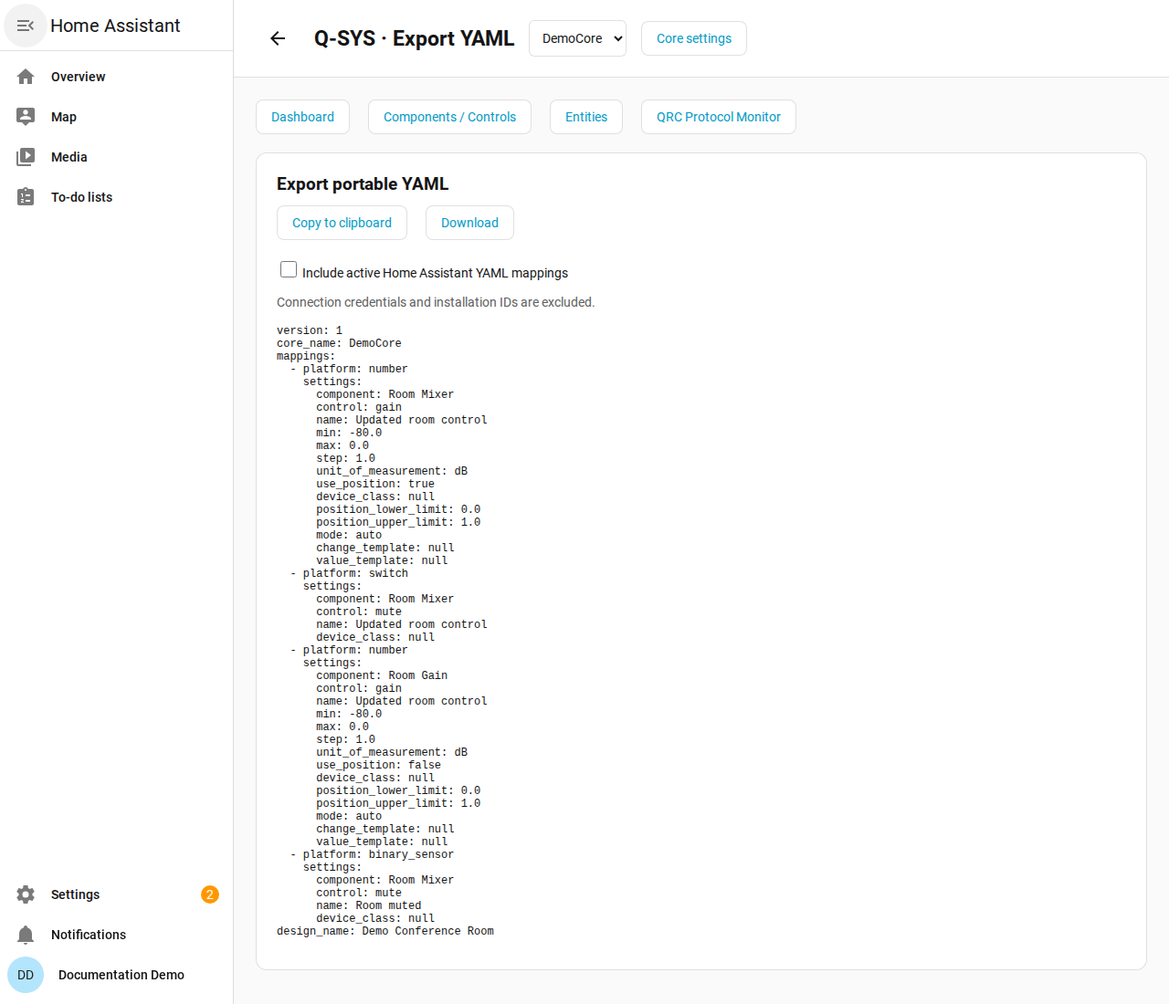
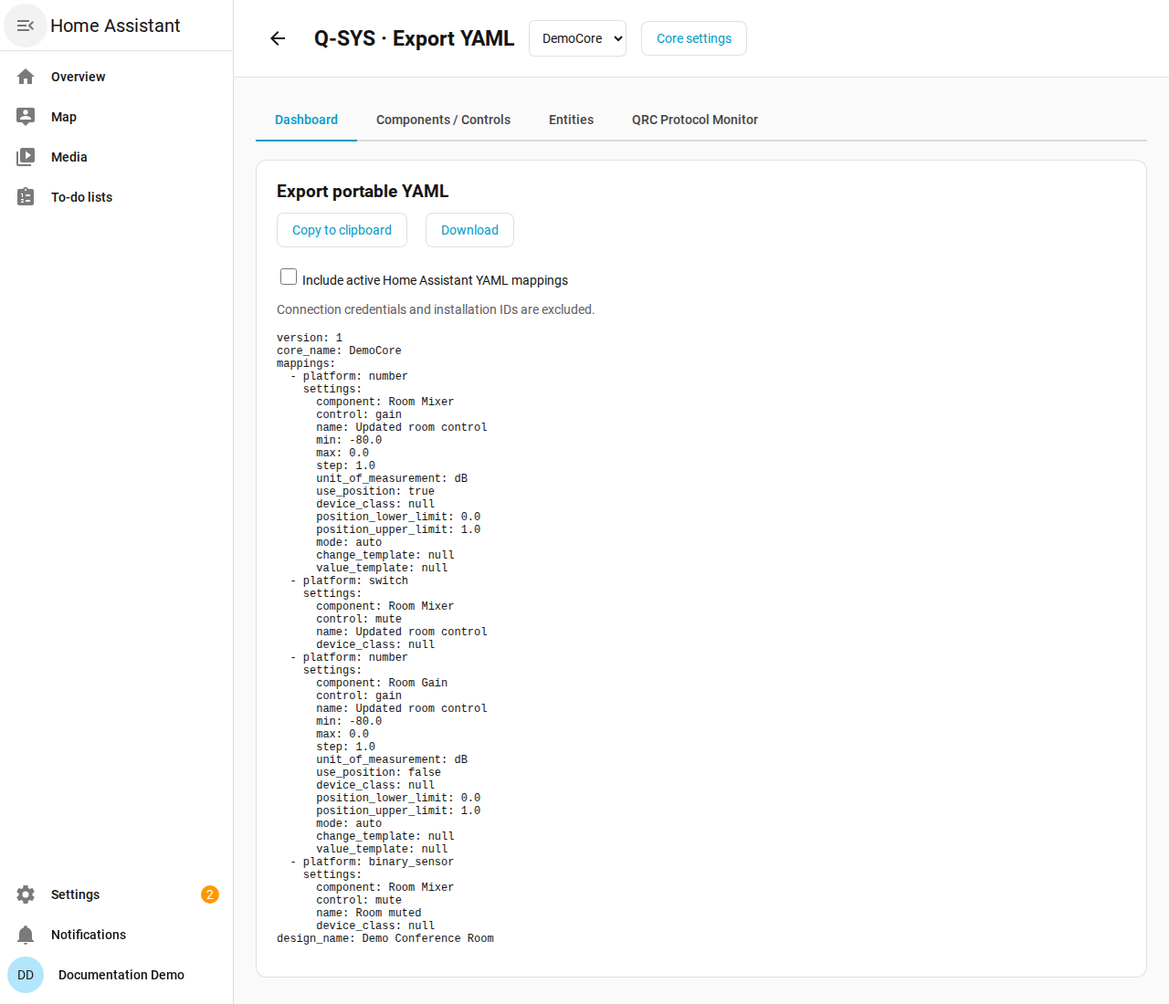
Use Home Assistant navigation tabs with a visible active view

Changed region(s): [[0.2188, 0.0927, 0.6875, 0.9582]]

diff --git a/custom_components/qsys_qrc/frontend/panel.js b/custom_components/qsys_qrc/frontend/panel.js
@@ -21,8 +21,23 @@ customElements.define('qsys-discard-dialog',QsysDiscardDialog);
 class QsysPanel extends HTMLElement {
   constructor() {
     super(); this.attachShadow({mode:'open'}); this.view='overview'; this.cores=[]; this.controls=[]; this.selectedComponents=new Set(); this.componentErrors={}; this.inventory=[]; this.selected=new Set(); this.filter=''; this.frames=[]; this.paused=false;this.cleanControls=new Map();this.collator=new Intl.Collator(undefined,{numeric:true,sensitivity:'base'});this.controlSort={field:'name',direction:1};this.entitySort={field:'name',direction:1};
-    this.shadowRoot.addEventListener('click', e => { const button=e.target.closest('[data-action]'); if(button) this.run(()=>this.action(button.dataset.action,button.dataset)); });
+    this.shadowRoot.addEventListener('click', e => { const button=e.target.closest('[data-action]'); if(button) this.run(()=>this.action(button.dataset.action,button.dataset)); const tab=e.target.closest('ha-tab-group-tab');if(tab&&tab.panel===this.navigationView()&&tab.panel!==this.view){this.restoreNavigationFocus=true;this.run(()=>this.navigate(tab.panel));} });
     this.shadowRoot.addEventListener('change', e => {if(e.target.id==='direction'){this.direction=e.target.value;this.updateMonitor();return;}if(e.target.matches('#core,#single-column,[data-component],[data-select],#all,[data-platform],[data-position],#file,#effective,#edit-field,#collision,#transfer'))this.run(()=>this.change(e.target));});
+    this.shadowRoot.addEventListener('wa-tab-show',event=>{
+      const view=event.detail.name;
+      if(view===this.navigationView()||!panelViews.has(view))return;
+      this.shadowRoot.querySelector('ha-tab-group')?.show?.(this.navigationView());
+      this.restoreNavigationFocus=true;
+      this.run(()=>this.navigate(view));
+    });
+    this.shadowRoot.addEventListener('keydown',event=>{
+      const tab=event.target.closest?.('.fallback-tabs [role="tab"]');
+      if(!tab||!['ArrowLeft','ArrowRight','Home','End'].includes(event.key))return;
+      event.preventDefault();
+      const tabs=[...tab.parentElement.querySelectorAll('[role="tab"]')],index=tabs.indexOf(tab);
+      const next=event.key==='Home'?0:event.key==='End'?tabs.length-1:(index+(event.key==='ArrowRight'?1:-1)+tabs.length)%tabs.length;
+      tabs.forEach((item,i)=>item.tabIndex=i===next?0:-1);tabs[next].focus();
+    });
     this.shadowRoot.addEventListener('input', e => {if(e.target.id==='component-filter'){this.componentFilter=e.target.value;this.filterComponentChoices();} if(e.target.id==='monitor-search'){this.monitorSearch=e.target.value;this.updateMonitor();}if(e.target.id==='search') { this.filter=e.target.value; this.filterRows(); } });
   }
   set hass(value) { this._hass=value;this.updateEntityIcons(); if(!this.started && this.isConnected) {this.started=true; this.run(()=>this.initialize());} }
@@ -74,7 +89,7 @@ class QsysPanel extends HTMLElement {
     if(pending.discard)history.go(pending.delta);
   }
   updateActionPanelHeight(){if(['browser','entities'].includes(this.view)){const height=Math.max(0,document.documentElement.clientHeight-Math.max(0,this.getBoundingClientRect().top));this.style.setProperty('--qsys-panel-height',`${height}px`);}}
-  connectedCallback() { this.resizeActionPanel=()=>this.updateActionPanelHeight();window.addEventListener('resize',this.resizeActionPanel);this.installLeaveGuard(); if(this._hass&&!this.started){this.started=true;this.run(()=>this.initialize());} this.timer=setInterval(()=>{if(this.view==='monitor'&&!this.paused&&!this.busy)this.refreshMonitor();if(this.view==='browser'&&this.selectedComponents.size&&this.controls.length&&!this.busy&&!this.polling)this.pollValues();},1500); }
+  connectedCallback() { this.watchNavigationTabs();this.resizeActionPanel=()=>this.updateActionPanelHeight();window.addEventListener('resize',this.resizeActionPanel);this.installLeaveGuard(); if(this._hass&&!this.started){this.started=true;this.run(()=>this.initialize());} this.timer=setInterval(()=>{if(this.view==='monitor'&&!this.paused&&!this.busy)this.refreshMonitor();if(this.view==='browser'&&this.selectedComponents.size&&this.controls.length&&!this.busy&&!this.polling)this.pollValues();},1500); }
   disconnectedCallback(){ window.removeEventListener('resize',this.resizeActionPanel);clearInterval(this.timer);this.entityEventGeneration=(this.entityEventGeneration||0)+1;this.entityEventsUnsubscribe?.();this.entityEventsUnsubscribe=null;this.pendingEntityInventory=null;this.started=false;window.navigation?.removeEventListener('navigate',this.leaveTraverse);window.removeEventListener('beforeunload',this.beforeUnload);window.removeEventListener('click',this.leaveClick,true);window.removeEventListener('location-changed',this.leaveLocation,true);window.removeEventListener('popstate',this.leaveLocation,true); }
   async api(operation,params={}) {return this._hass.callWS({type:'qsys_qrc/panel',operation,...(this.entry?{entry_id:this.entry}:{}),...params});}
   async run(fn){if(this.busy)return;this.actionFocus=this.shadowRoot.activeElement?.dataset.action;this.captureForm();this.busy=true;this.error='';this.shadowRoot.querySelectorAll('button,input,select,textarea').forEach(b=>b.disabled=true);try{await fn();}catch(e){this.error=e.message||String(e);}finally{this.busy=false;this.render();if(this.pendingRoute){this.pendingRoute=false;this.routeChanged();}this.refreshEntityInventory();}}
@@ -316,7 +331,7 @@ class QsysPanel extends HTMLElement {
     if(action==='more-info'){this.dispatchEvent(new CustomEvent('hass-more-info',{detail:{entityId:data.entity},bubbles:true,composed:true}));return;}
     if(action==='core-settings'){if(!await this.confirmLeave())return;history.pushState(null,'','/config/integrations/integration/qsys_qrc');window.dispatchEvent(new CustomEvent('location-changed'));return;}
     if(action==='back'){if(!await this.confirmLeave())return;history.pushState(null,'','/config/connectivity');window.dispatchEvent(new CustomEvent('location-changed'));return;}
-    if(action==='navigate')return this.navigate(data.view);
+    if(action==='navigate'){if(this.shadowRoot.activeElement?.getAttribute('role')==='tab')this.restoreNavigationFocus=true;return this.navigate(data.view);}
     if(action==='refresh')return this.view==='browser'?this.refreshControls():this.navigate(this.view);
     if(action==='refresh-components')return this.refreshComponents();
     if(action==='show-all-components')return this.showComponents([...new Set([...this.selectedComponents,...this.matchingComponents().map(c=>c.Name)])]);
@@ -383,6 +398,19 @@ class QsysPanel extends HTMLElement {
   helpTooltip(id,label,text){
     return `<span class="help"><button type="button" class="help-icon" aria-label="About ${escapeHTML(label)}" aria-describedby="help-${id}">?</button><span class="help-tooltip" role="tooltip" id="help-${id}">${escapeHTML(text)}</span></span>`;
   }
+  navigationView(){return ['overview','browser','entities','monitor'].includes(this.view)?this.view:'overview';}
+  watchNavigationTabs(){
+    if(this.navigationUpgradeWatching||customElements.get('ha-tab-group')&&customElements.get('ha-tab-group-tab'))return;
+    this.navigationUpgradeWatching=true;
+    Promise.all(['ha-tab-group','ha-tab-group-tab'].map(name=>customElements.whenDefined(name))).then(()=>{
+      if(this.isConnected&&!this.busy){this.captureForm();this.render();}
+    });
+  }
+  renderNavigation(titles){
+    const views=Object.entries(titles).filter(([view])=>['overview','browser','entities','monitor'].includes(view)),active=this.navigationView();
+    if(customElements.get('ha-tab-group')&&customElements.get('ha-tab-group-tab'))return `<ha-tab-group class="view-tabs" aria-label="Q-SYS views">${views.map(([view,label])=>`<ha-tab-group-tab slot="nav" panel="${view}" ${view===active?'active':''}>${label}</ha-tab-group-tab>`).join('')}</ha-tab-group>`;
+    return `<div class="view-tabs fallback-tabs" role="tablist" aria-label="Q-SYS views">${views.map(([view,label])=>`<button role="tab" aria-selected="${view===active}" aria-controls="view-content" tabindex="${view===active?'0':'-1'}" data-action="navigate" data-view="${view}">${label}</button>`).join('')}</div>`;
+  }
   renderEntityBar(){return `<section class="action-bar entity-action-bar" aria-label="Manage selected entities"><div class="edit-controls"><label>Setting to edit <select id="edit-field">${this.editableFields().map(([v,label])=>`<option value="${v}" ${(this.editField||'name')===v?'selected':''}>${label}</option>`).join('')}</select></label>${this.editInput()}</div><div class="entity-action-footer"><span role="status">${this.selected.size} selected · Edits apply to every selected entity</span><div class="entity-actions">${this.button(`Review edits (${this.selected.size})`,'edit',this.selected.size?'class="filled"':'disabled')}${this.button(`Review deletion (${this.selected.size})`,'delete',`class="danger ${this.selected.size?'filled':''}" ${this.selected.size?'':'disabled'}`)}</div></div></section>`;}
   renderCreationBar(){return `<div class="action-bar" aria-label="Create entities"><span role="status">${this.selected.size} selected for creation</span>${this.button(`Review creation (${this.selected.size})`,'create',this.selected.size?'class="filled"':'disabled')}</div>`;}
   renderBrowser(){
@@ -438,8 +466,8 @@ class QsysPanel extends HTMLElement {
     if(this.view==='entities'&&!this.editableFields().some(([field])=>field===(this.editField||'name'))){this.editField='name';this.editValue='';}
     const titles={overview:'Dashboard',browser:'Components / Controls',entities:'Entities',monitor:'QRC Protocol Monitor',diagnostics:'Diagnostics',import:'Import YAML',export:'Export YAML',migrate:'Migrate from Home Assistant YAML'};
     this.shadowRoot.innerHTML=`<style>
-      :host{display:block;height:100%;overflow:auto;background:var(--primary-background-color);color:var(--primary-text-color);font-family:var(--paper-font-body1_-_font-family,Roboto,Arial,sans-serif)}*{box-sizing:border-box}[hidden]{display:none!important}header{display:flex;align-items:center;gap:16px;padding:18px 24px;background:var(--card-background-color);border-bottom:1px solid var(--divider-color)}header h1{margin:0;font-size:23px}main{max-width:1400px;margin:auto;padding:24px}nav,.tools{display:flex;flex-wrap:wrap;align-items:center;gap:12px;margin-bottom:20px}.grid{display:grid;grid-template-columns:repeat(auto-fit,minmax(250px,1fr));gap:18px;margin-bottom:32px}.card,.review{background:var(--card-background-color);border:1px solid var(--divider-color);border-radius:12px;padding:22px;text-align:left}.browser-config-card{margin-bottom:18px}.browser-config-card .tools:last-child{margin-bottom:0}.section-heading{display:flex;align-items:center;gap:8px;margin-bottom:12px}.section-heading h2{margin:0}.help{position:relative;display:inline-flex}.help-icon{display:inline-flex;align-items:center;justify-content:center;width:20px;height:20px;padding:0;margin:0;border-radius:50%;font-size:14px;font-weight:600;color:var(--secondary-text-color)}.help-icon:focus-visible{outline:2px solid var(--primary-color);outline-offset:3px}.card .help-tooltip{position:absolute;top:28px;left:-36px;z-index:2;width:300px;max-width:calc(100vw - 90px);padding:12px;border:1px solid var(--divider-color);border-radius:8px;background:var(--card-background-color);color:var(--primary-text-color);font-size:14px;line-height:1.5;box-shadow:0 3px 12px #0003;visibility:hidden;pointer-events:none}.help:hover .help-tooltip,.help:focus-within .help-tooltip{visibility:visible}.card h2{margin:0 0 12px;font-size:19px}.card .section-heading h2{margin:0}.card p,p{line-height:1.5;color:var(--secondary-text-color)}.card span{color:var(--primary-color)}button{cursor:pointer;color:var(--primary-color);background:var(--card-background-color);border:1px solid var(--divider-color);border-radius:8px;padding:10px 16px;font:inherit;margin-right:8px}button.sort-header{display:inline-flex;align-items:center;gap:6px;border:0;padding:0;margin:0;background:transparent;color:inherit;font-weight:600;text-align:left}.sort-icon{--mdc-icon-size:20px;width:20px;height:20px;flex:0 0 20px}.sort-icon.inactive{visibility:hidden}button.sort-header:hover{color:var(--primary-color)}.entity-label{display:inline-flex;align-items:center;gap:10px}.entity-label ha-state-icon{--mdc-icon-size:24px;width:24px;height:24px;flex:0 0 24px;color:var(--secondary-text-color)}button.entity-name{border:0;padding:0;margin:0;text-align:left;background:transparent}button.entity-name:hover{text-decoration:underline}button:hover{border-color:var(--primary-color)}button.filled{background:var(--primary-color);border-color:var(--primary-color);color:var(--text-primary-color,#fff)}button.danger{color:var(--error-color);border-color:var(--error-color)}button.danger.filled{background:var(--error-color);color:var(--text-primary-color,#fff)}button.filled:hover{filter:brightness(.92)}button:disabled{opacity:.5;cursor:not-allowed}:host([pinned-actions]){height:var(--qsys-panel-height,100dvh);display:flex;flex-direction:column;overflow:hidden}:host([pinned-actions]) header{flex-shrink:0}:host([pinned-actions]) main{flex:1;min-height:0;overflow:auto;width:100%}.action-bar{flex-shrink:0;width:calc(100% - 48px);max-width:1352px;margin:0 auto 24px;z-index:3;display:flex;align-items:center;justify-content:space-between;flex-wrap:wrap;gap:12px;padding:14px 18px;background:var(--card-background-color);border:1px solid var(--divider-color);border-radius:12px;box-shadow:0 -3px 12px #0001}.action-bar button{margin:0}.entity-action-bar{display:block;max-height:60dvh;overflow:auto}.edit-controls{display:grid;grid-template-columns:minmax(160px,1fr) minmax(200px,2fr);gap:12px;margin-bottom:12px}.edit-controls label{margin:0}.edit-controls select{display:block;width:100%;margin-top:8px}.edit-controls p{grid-column:1/-1;margin:0}.entity-action-footer{position:sticky;bottom:0;display:flex;align-items:center;justify-content:space-between;flex-wrap:wrap;gap:12px;background:var(--card-background-color)}.entity-actions{display:flex;flex-wrap:wrap;gap:12px}.empty-state{padding:20px;border:1px dashed var(--divider-color);border-radius:8px}input,select,textarea{font:inherit;color:var(--primary-text-color);background:var(--card-background-color);border:1px solid var(--divider-color);border-radius:6px;padding:10px;max-width:100%}input[type=checkbox]{width:18px;height:18px;accent-color:var(--primary-color)}label{display:block;margin:12px 0}.edit-value-label>input,.edit-value-label>select,.edit-value-label>textarea{display:block;margin-top:8px}textarea{display:block;width:100%;margin:10px 0;font-family:monospace}.component-picker{display:grid;grid-template-columns:repeat(auto-fit,minmax(min(100%,320px),1fr));gap:12px 20px}.component-picker.single-column{grid-template-columns:1fr}.component-picker label{display:flex;align-items:flex-start;gap:10px;min-width:0;margin:4px 0;cursor:pointer}.component-picker input[type=checkbox]{flex:0 0 18px;margin:2px 0 0}.component-picker .component-label{display:flex;flex-direction:column;align-items:flex-start;gap:4px;min-width:0}.component-picker .component-name{color:var(--primary-text-color);font-size:inherit;overflow-wrap:anywhere;min-width:0}.component-picker .component-type{color:var(--secondary-text-color);font-size:12px;overflow-wrap:anywhere}.mapped-row{background:var(--secondary-background-color)}.mapped-row td{color:var(--disabled-text-color,var(--secondary-text-color))}.mapped-row input{opacity:.55}.mapped-badge{display:block;font-size:12px;margin-top:4px}button.mapped-link{padding:0;margin:4px 0 0;border:0;background:transparent;text-align:left}button.mapped-link:hover{text-decoration:underline}.component-group th{background:var(--secondary-background-color);color:var(--primary-text-color)}.table-filter{margin-bottom:8px}.table-filter+.table{margin-top:0}.table{overflow:auto;margin:20px 0}table{border-collapse:collapse;width:100%;text-align:left}th,td{padding:12px;border-bottom:1px solid var(--divider-color);vertical-align:top}th{color:var(--secondary-text-color)}pre{white-space:pre-wrap;overflow-wrap:anywhere;font-size:12px;max-width:800px}summary{cursor:pointer}.badge{font-size:12px}.error{padding:16px;border-radius:8px;background:var(--error-color);color:white}.message{padding:12px;border:1px solid var(--primary-color)}#review-dialog{width:min(900px,calc(100vw - 32px));max-height:calc(100dvh - 32px);padding:0;border:1px solid var(--divider-color);border-radius:12px;background:var(--card-background-color);color:var(--primary-text-color)}#review-dialog::backdrop{background:rgba(0,0,0,.5)}.review{margin:0;border:0}.review h2{margin-top:0}.review-content{overflow:auto;max-height:55dvh}.review-actions{display:flex;justify-content:flex-end;gap:12px;flex-wrap:wrap;margin-top:20px}.review-actions button{margin:0}@media(max-width:600px){.edit-controls{grid-template-columns:1fr}.action-bar{width:calc(100% - 28px);margin-bottom:14px}main{padding:14px}header{padding:14px;flex-wrap:wrap}header select{width:100%}.grid{grid-template-columns:1fr}}
-    </style><header><ha-icon-button id="back" data-action="back" label="Back to Connectivity"></ha-icon-button><h1>Q-SYS · ${titles[this.view]}</h1><select id="core" aria-label="Q-SYS Core">${this.cores.map(c=>`<option value="${escapeHTML(c.entry_id)}" ${c.entry_id===this.entry?'selected':''}>${escapeHTML(c.name)}</option>`).join('')}</select>${this.cores.length?this.button('Core settings','core-settings'):''}</header><main><nav>${Object.entries(titles).filter(([v])=>['overview','browser','entities','monitor'].includes(v)).map(([v,t])=>this.button(t,'navigate',`data-view="${v}" ${this.view===v?'aria-current="page"':''}`)).join('')}</nav>${this.error?`<p class="error" role="alert">${escapeHTML(this.error)}</p>`:''}${this.message?`<div class="message"><p role="status">${escapeHTML(this.message)}${this.reloadPending?' Updating entities…':''}</p>${this.messageEntities?this.button('View entities','navigate','data-view="entities"'):''}</div>`:''}${!this.cores.length?`<section class="card"><h2>Connect your first Core</h2><p>Open Settings → Devices &amp; services, choose Add integration, and search for Q-Sys QRC. Then return here to create entities. No YAML is required.</p>${this.button('Open integration settings','core-settings')}</section>`:this.view==='overview'?this.renderOverview():this.view==='browser'?this.renderBrowser():this.view==='entities'||this.view==='migrate'?this.renderEntities(this.view==='migrate'):this.view==='monitor'?this.renderMonitor():this.view==='diagnostics'?`<div class="grid">${this.cores.map(c=>`<article class="card"><h2>${escapeHTML(c.name)}</h2><p>${escapeHTML(c.status)}</p>${c.last_error?`<p role="alert">${escapeHTML(c.last_error)}</p>`:''}<p>Design information recorded when the Core was configured:</p><pre>${escapeHTML(JSON.stringify(c.engine,null,2))}</pre><p>Use the Protocol Monitor to inspect errors and polling responses. Core connection changes are available under Settings → Devices & services → Q-SYS → Reconfigure.</p></article>`).join('')}</div>`:this.renderTransport()}${this.review?this.renderReview():''}</main>${this.cores.length?(this.view==='browser'?this.renderCreationBar():this.view==='entities'?this.renderEntityBar():''):''}`;
+      :host{display:block;height:100%;overflow:auto;background:var(--primary-background-color);color:var(--primary-text-color);font-family:var(--paper-font-body1_-_font-family,Roboto,Arial,sans-serif)}*{box-sizing:border-box}[hidden]{display:none!important}header{display:flex;align-items:center;gap:16px;padding:18px 24px;background:var(--card-background-color);border-bottom:1px solid var(--divider-color)}header h1{margin:0;font-size:23px}main{max-width:1400px;margin:auto;padding:24px}.tools{display:flex;flex-wrap:wrap;align-items:center;gap:12px;margin-bottom:20px}.view-tabs{margin-bottom:20px}.fallback-tabs{display:flex;overflow-x:auto;border-bottom:2px solid var(--divider-color);gap:4px}.fallback-tabs button{flex-shrink:0;margin:0;border:0;border-bottom:3px solid transparent;border-radius:0;background:transparent;padding:12px 16px;color:var(--secondary-text-color)}.fallback-tabs button[aria-selected="true"]{border-bottom-color:var(--primary-color);color:var(--primary-color);font-weight:600}.fallback-tabs button:focus-visible{outline:2px solid var(--primary-color);outline-offset:-2px}.grid{display:grid;grid-template-columns:repeat(auto-fit,minmax(250px,1fr));gap:18px;margin-bottom:32px}.card,.review{background:var(--card-background-color);border:1px solid var(--divider-color);border-radius:12px;padding:22px;text-align:left}.browser-config-card{margin-bottom:18px}.browser-config-card .tools:last-child{margin-bottom:0}.section-heading{display:flex;align-items:center;gap:8px;margin-bottom:12px}.section-heading h2{margin:0}.help{position:relative;display:inline-flex}.help-icon{display:inline-flex;align-items:center;justify-content:center;width:20px;height:20px;padding:0;margin:0;border-radius:50%;font-size:14px;font-weight:600;color:var(--secondary-text-color)}.help-icon:focus-visible{outline:2px solid var(--primary-color);outline-offset:3px}.card .help-tooltip{position:absolute;top:28px;left:-36px;z-index:2;width:300px;max-width:calc(100vw - 90px);padding:12px;border:1px solid var(--divider-color);border-radius:8px;background:var(--card-background-color);color:var(--primary-text-color);font-size:14px;line-height:1.5;box-shadow:0 3px 12px #0003;visibility:hidden;pointer-events:none}.help:hover .help-tooltip,.help:focus-within .help-tooltip{visibility:visible}.card h2{margin:0 0 12px;font-size:19px}.card .section-heading h2{margin:0}.card p,p{line-height:1.5;color:var(--secondary-text-color)}.card span{color:var(--primary-color)}button{cursor:pointer;color:var(--primary-color);background:var(--card-background-color);border:1px solid var(--divider-color);border-radius:8px;padding:10px 16px;font:inherit;margin-right:8px}button.sort-header{display:inline-flex;align-items:center;gap:6px;border:0;padding:0;margin:0;background:transparent;color:inherit;font-weight:600;text-align:left}.sort-icon{--mdc-icon-size:20px;width:20px;height:20px;flex:0 0 20px}.sort-icon.inactive{visibility:hidden}button.sort-header:hover{color:var(--primary-color)}.entity-label{display:inline-flex;align-items:center;gap:10px}.entity-label ha-state-icon{--mdc-icon-size:24px;width:24px;height:24px;flex:0 0 24px;color:var(--secondary-text-color)}button.entity-name{border:0;padding:0;margin:0;text-align:left;background:transparent}button.entity-name:hover{text-decoration:underline}button:hover{border-color:var(--primary-color)}button.filled{background:var(--primary-color);border-color:var(--primary-color);color:var(--text-primary-color,#fff)}button.danger{color:var(--error-color);border-color:var(--error-color)}button.danger.filled{background:var(--error-color);color:var(--text-primary-color,#fff)}button.filled:hover{filter:brightness(.92)}button:disabled{opacity:.5;cursor:not-allowed}:host([pinned-actions]){height:var(--qsys-panel-height,100dvh);display:flex;flex-direction:column;overflow:hidden}:host([pinned-actions]) header{flex-shrink:0}:host([pinned-actions]) main{flex:1;min-height:0;overflow:auto;width:100%}.action-bar{flex-shrink:0;width:calc(100% - 48px);max-width:1352px;margin:0 auto 24px;z-index:3;display:flex;align-items:center;justify-content:space-between;flex-wrap:wrap;gap:12px;padding:14px 18px;background:var(--card-background-color);border:1px solid var(--divider-color);border-radius:12px;box-shadow:0 -3px 12px #0001}.action-bar button{margin:0}.entity-action-bar{display:block;max-height:60dvh;overflow:auto}.edit-controls{display:grid;grid-template-columns:minmax(160px,1fr) minmax(200px,2fr);gap:12px;margin-bottom:12px}.edit-controls label{margin:0}.edit-controls select{display:block;width:100%;margin-top:8px}.edit-controls p{grid-column:1/-1;margin:0}.entity-action-footer{position:sticky;bottom:0;display:flex;align-items:center;justify-content:space-between;flex-wrap:wrap;gap:12px;background:var(--card-background-color)}.entity-actions{display:flex;flex-wrap:wrap;gap:12px}.empty-state{padding:20px;border:1px dashed var(--divider-color);border-radius:8px}input,select,textarea{font:inherit;color:var(--primary-text-color);background:var(--card-background-color);border:1px solid var(--divider-color);border-radius:6px;padding:10px;max-width:100%}input[type=checkbox]{width:18px;height:18px;accent-color:var(--primary-color)}label{display:block;margin:12px 0}.edit-value-label>input,.edit-value-label>select,.edit-value-label>textarea{display:block;margin-top:8px}textarea{display:block;width:100%;margin:10px 0;font-family:monospace}.component-picker{display:grid;grid-template-columns:repeat(auto-fit,minmax(min(100%,320px),1fr));gap:12px 20px}.component-picker.single-column{grid-template-columns:1fr}.component-picker label{display:flex;align-items:flex-start;gap:10px;min-width:0;margin:4px 0;cursor:pointer}.component-picker input[type=checkbox]{flex:0 0 18px;margin:2px 0 0}.component-picker .component-label{display:flex;flex-direction:column;align-items:flex-start;gap:4px;min-width:0}.component-picker .component-name{color:var(--primary-text-color);font-size:inherit;overflow-wrap:anywhere;min-width:0}.component-picker .component-type{color:var(--secondary-text-color);font-size:12px;overflow-wrap:anywhere}.mapped-row{background:var(--secondary-background-color)}.mapped-row td{color:var(--disabled-text-color,var(--secondary-text-color))}.mapped-row input{opacity:.55}.mapped-badge{display:block;font-size:12px;margin-top:4px}button.mapped-link{padding:0;margin:4px 0 0;border:0;background:transparent;text-align:left}button.mapped-link:hover{text-decoration:underline}.component-group th{background:var(--secondary-background-color);color:var(--primary-text-color)}.table-filter{margin-bottom:8px}.table-filter+.table{margin-top:0}.table{overflow:auto;margin:20px 0}table{border-collapse:collapse;width:100%;text-align:left}th,td{padding:12px;border-bottom:1px solid var(--divider-color);vertical-align:top}th{color:var(--secondary-text-color)}pre{white-space:pre-wrap;overflow-wrap:anywhere;font-size:12px;max-width:800px}summary{cursor:pointer}.badge{font-size:12px}.error{padding:16px;border-radius:8px;background:var(--error-color);color:white}.message{padding:12px;border:1px solid var(--primary-color)}#review-dialog{width:min(900px,calc(100vw - 32px));max-height:calc(100dvh - 32px);padding:0;border:1px solid var(--divider-color);border-radius:12px;background:var(--card-background-color);color:var(--primary-text-color)}#review-dialog::backdrop{background:rgba(0,0,0,.5)}.review{margin:0;border:0}.review h2{margin-top:0}.review-content{overflow:auto;max-height:55dvh}.review-actions{display:flex;justify-content:flex-end;gap:12px;flex-wrap:wrap;margin-top:20px}.review-actions button{margin:0}@media(max-width:600px){.edit-controls{grid-template-columns:1fr}.action-bar{width:calc(100% - 28px);margin-bottom:14px}main{padding:14px}header{padding:14px;flex-wrap:wrap}header select{width:100%}.grid{grid-template-columns:1fr}}
+    </style><header><ha-icon-button id="back" data-action="back" label="Back to Connectivity"></ha-icon-button><h1>Q-SYS · ${titles[this.view]}</h1><select id="core" aria-label="Q-SYS Core">${this.cores.map(c=>`<option value="${escapeHTML(c.entry_id)}" ${c.entry_id===this.entry?'selected':''}>${escapeHTML(c.name)}</option>`).join('')}</select>${this.cores.length?this.button('Core settings','core-settings'):''}</header><main>${this.renderNavigation(titles)}<section id="view-content" role="tabpanel" aria-label="${titles[this.view]}">${this.error?`<p class="error" role="alert">${escapeHTML(this.error)}</p>`:''}${this.message?`<div class="message"><p role="status">${escapeHTML(this.message)}${this.reloadPending?' Updating entities…':''}</p>${this.messageEntities?this.button('View entities','navigate','data-view="entities"'):''}</div>`:''}${!this.cores.length?`<section class="card"><h2>Connect your first Core</h2><p>Open Settings → Devices &amp; services, choose Add integration, and search for Q-Sys QRC. Then return here to create entities. No YAML is required.</p>${this.button('Open integration settings','core-settings')}</section>`:this.view==='overview'?this.renderOverview():this.view==='browser'?this.renderBrowser():this.view==='entities'||this.view==='migrate'?this.renderEntities(this.view==='migrate'):this.view==='monitor'?this.renderMonitor():this.view==='diagnostics'?`<div class="grid">${this.cores.map(c=>`<article class="card"><h2>${escapeHTML(c.name)}</h2><p>${escapeHTML(c.status)}</p>${c.last_error?`<p role="alert">${escapeHTML(c.last_error)}</p>`:''}<p>Design information recorded when the Core was configured:</p><pre>${escapeHTML(JSON.stringify(c.engine,null,2))}</pre><p>Use the Protocol Monitor to inspect errors and polling responses. Core connection changes are available under Settings → Devices & services → Q-SYS → Reconfigure.</p></article>`).join('')}</div>`:this.renderTransport()}${this.review?this.renderReview():''}</section></main>${this.cores.length?(this.view==='browser'?this.renderCreationBar():this.view==='entities'?this.renderEntityBar():''):''}`;
     this.updateActionPanelHeight();
     this.updateEntityIcons();
     const editInput=this.shadowRoot.querySelector('#edit-value');if(editInput&&(this.resetEditBaseline||this.cleanEditValue===undefined)){this.cleanEditValue=editInput.type==='checkbox'?editInput.checked:editInput.value;this.resetEditBaseline=false;}
@@ -452,6 +480,7 @@ class QsysPanel extends HTMLElement {
     this.filterComponentChoices();
     this.filterRows();
     this.shadowRoot.querySelector('main').scrollTop=mainScroll;
+    if(this.restoreNavigationFocus){this.shadowRoot.querySelector('ha-tab-group-tab[active],.fallback-tabs [aria-selected="true"]')?.focus({preventScroll:true});this.restoreNavigationFocus=false;}
     const all=this.shadowRoot.querySelector("#all");if(all){const boxes=[...this.shadowRoot.querySelectorAll("tbody tr:not([hidden]) [data-select]:not(:disabled)")];all.checked=boxes.length>0&&boxes.every(box=>box.checked);all.indeterminate=boxes.some(box=>box.checked)&&!all.checked;}
   }
 }

diff --git a/scripts/screenshots/panel.py b/scripts/screenshots/panel.py
@@ -252,7 +252,7 @@ async def capture(config):
                 await panel.get_by_role("button", name="Manage entities", exact=False).wait_for()
                 await screenshot("panel-dashboard.png")
                 await panel.get_by_role(
-                    "button", name="Components / Controls", exact=True
+                    "tab", name="Components / Controls", exact=True
                 ).click()
                 await panel.get_by_role(
                     "heading", name="Or look up Named Controls", exact=True
@@ -430,7 +430,7 @@ async def capture(config):
                 ).evaluate("button => button.matches(':focus')")
                 assert await media_checkbox.is_checked()
                 await media_checkbox.uncheck()
-                await panel.get_by_role("button", name="Entities", exact=True).click()
+                await panel.get_by_role("tab", name="Entities", exact=True).click()
                 await page.get_by_role(
                     "button", name="Keep editing", exact=True
                 ).click()
@@ -492,6 +492,7 @@ async def capture(config):
                 }""")
                 await expect(panel.locator(".message")).to_contain_text("Created 3 entities.")
                 await panel.get_by_role("button", name="View entities", exact=True).click()
+                assert await panel.evaluate("el => {const tab=el.shadowRoot.querySelector('ha-tab-group-tab[active],.fallback-tabs [aria-selected=true]');return tab?.textContent.trim()==='Entities';}")
                 await expect(panel.get_by_role("button", name="Review edits (0)", exact=True)).to_be_disabled()
                 await expect(panel.get_by_role("button", name="Review deletion (0)", exact=True)).to_be_disabled()
                 assert (
@@ -637,7 +638,7 @@ async def capture(config):
                 )
                 assert await panel.locator(".error").count() == 0
                 await panel.get_by_role(
-                    "button", name="QRC Protocol Monitor", exact=True
+                    "tab", name="QRC Protocol Monitor", exact=True
                 ).click()
                 await panel.get_by_role(
                     "button", name="Start capture", exact=True
@@ -675,7 +676,7 @@ async def capture(config):
                 ).fill("")
 
                 await screenshot("panel-monitor.png")
-                await panel.get_by_role("button", name="Dashboard", exact=True).click()
+                await panel.get_by_role("tab", name="Dashboard", exact=True).click()
                 await panel.get_by_role(
                     "button", name="Migrate from Home Assistant YAML", exact=False
                 ).click()
@@ -691,7 +692,7 @@ async def capture(config):
                     state="hidden"
                 )
                 assert await panel.locator(".error").count() == 0
-                await panel.get_by_role("button", name="Dashboard", exact=True).click()
+                await panel.get_by_role("tab", name="Dashboard", exact=True).click()
                 await panel.get_by_role(
                     "button", name="Export YAML", exact=False
                 ).click()
@@ -722,7 +723,7 @@ async def capture(config):
                     ).click()
                 document = Path(await (await download.value).path()).read_text()
                 assert document == displayed_document
-                await panel.get_by_role("button", name="Dashboard", exact=True).click()
+                await panel.get_by_role("tab", name="Dashboard", exact=True).click()
                 await panel.get_by_role(
                     "button", name="Import YAML", exact=False
                 ).click()
@@ -739,13 +740,13 @@ async def capture(config):
                 ).click()
                 await panel.locator("#review-title").wait_for()
                 await panel.get_by_role("button", name="Cancel", exact=True).click()
-                await panel.get_by_role("button", name="Entities", exact=True).click()
+                await panel.get_by_role("tab", name="Entities", exact=True).click()
                 await page.get_by_role(
                     "button", name="Keep editing", exact=True
                 ).click()
                 await page.get_by_role("dialog").wait_for(state="hidden")
                 assert await panel.locator("#document").input_value() == document
-                await panel.get_by_role("button", name="Entities", exact=True).click()
+                await panel.get_by_role("tab", name="Entities", exact=True).click()
                 await page.get_by_role(
                     "button", name="Discard changes", exact=True
                 ).click()
@@ -769,7 +770,7 @@ async def capture(config):
                     == 0
                 )
                 await page.set_viewport_size({"width": 390, "height": 844})
-                await panel.get_by_role("button", name="Dashboard", exact=True).click()
+                await panel.get_by_role("tab", name="Dashboard", exact=True).click()
                 await panel.get_by_role(
                     "heading", name="Import & migration", exact=True
                 ).wait_for()

diff --git a/README.md b/README.md
@@ -124,8 +124,9 @@ than deleting controls from the Q-SYS design.
 
 Start with **Add entities** or **Manage entities** on the dashboard. Core cards
 show connection status and design information.
-Use the header buttons to open **Components / Controls**, **Entities**, or
-**QRC Protocol Monitor**. The **Import & migration** group contains **Import YAML**,
+Use the navigation tabs to open **Components / Controls**, **Entities**, or
+**QRC Protocol Monitor**. The active tab is highlighted; browser Back/Forward also updates its selected state.
+The **Import & migration** group contains **Import YAML**,
 **Export YAML**, and **Migrate from Home Assistant YAML**.
 
 ![Q-SYS dashboard](examples/screenshots/panel-dashboard.png)
